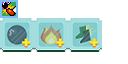
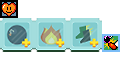
hpPowerUp

Changed region(s): [[0.7812, 0.5312, 0.9375, 0.8125], [0.0, 0.0, 0.1562, 0.2812]]

diff --git a/core/src/com/mygdx/entity/systems/PowerUpSystem.java b/core/src/com/mygdx/entity/systems/PowerUpSystem.java
@@ -32,8 +32,6 @@ public class PowerUpSystem extends IteratingSystem {
             Vector2 gridPosition = MapSystem.toGridPosition(transform.position);
             MapSystem mapSystem = getEngine().getSystem(MapSystem.class);
 
-            mapSystem.grid.get((int)gridPosition.y).get((int)gridPosition.x).type = TypeComponent.OTHER;
-
             getEngine().removeEntity(entity);
             return;
         }
@@ -75,6 +73,10 @@ public class PowerUpSystem extends IteratingSystem {
                 break;
             case PowerUpComponent.kickPowerUp:
                 texture.region = atlas.findRegion("powerups/KickPowerup");
+                transform.scale.set(2.0f, 2.0f);
+                break;
+            case PowerUpComponent.hpPowerUp:
+                texture.region = atlas.findRegion("powerups/HPPowerup");
                 transform.scale.set(2.0f, 2.0f);
                 break;
         }

diff --git a/core/src/com/mygdx/entity/systems/MapSystem.java b/core/src/com/mygdx/entity/systems/MapSystem.java
@@ -71,6 +71,8 @@ public class MapSystem extends IteratingSystem {
                     powerUpType = PowerUpComponent.speedPowerUp;
                 else if(type <= 0.3f)
                     powerUpType = PowerUpComponent.kickPowerUp;
+                else if(type <= 0.4f)
+                    powerUpType = PowerUpComponent.hpPowerUp;
                 else if(type <= 0.7f)
                     powerUpType = PowerUpComponent.bombPowerUp;
                 else

diff --git a/core/src/com/mygdx/listeners/GameContactListener.java b/core/src/com/mygdx/listeners/GameContactListener.java
@@ -86,6 +86,9 @@ public class GameContactListener implements ContactListener {
             case PowerUpComponent.kickPowerUp:
                 stats.canMoveBombs = true;
                 break;
+            case PowerUpComponent.hpPowerUp:
+                stats.HP++;
+                break;
         }
 
         upgrade.time = 0.0f;

diff --git a/core/src/com/mygdx/entity/components/PowerUpComponent.java b/core/src/com/mygdx/entity/components/PowerUpComponent.java
@@ -8,6 +8,7 @@ public class PowerUpComponent implements Component, Pool.Poolable {
     public static final int speedPowerUp = 1;
     public static final int damagePowerUp = 2;
     public static final int kickPowerUp = 3;
+    public static final int hpPowerUp = 4;
 
     public PowerUpComponent(){
         reset();
